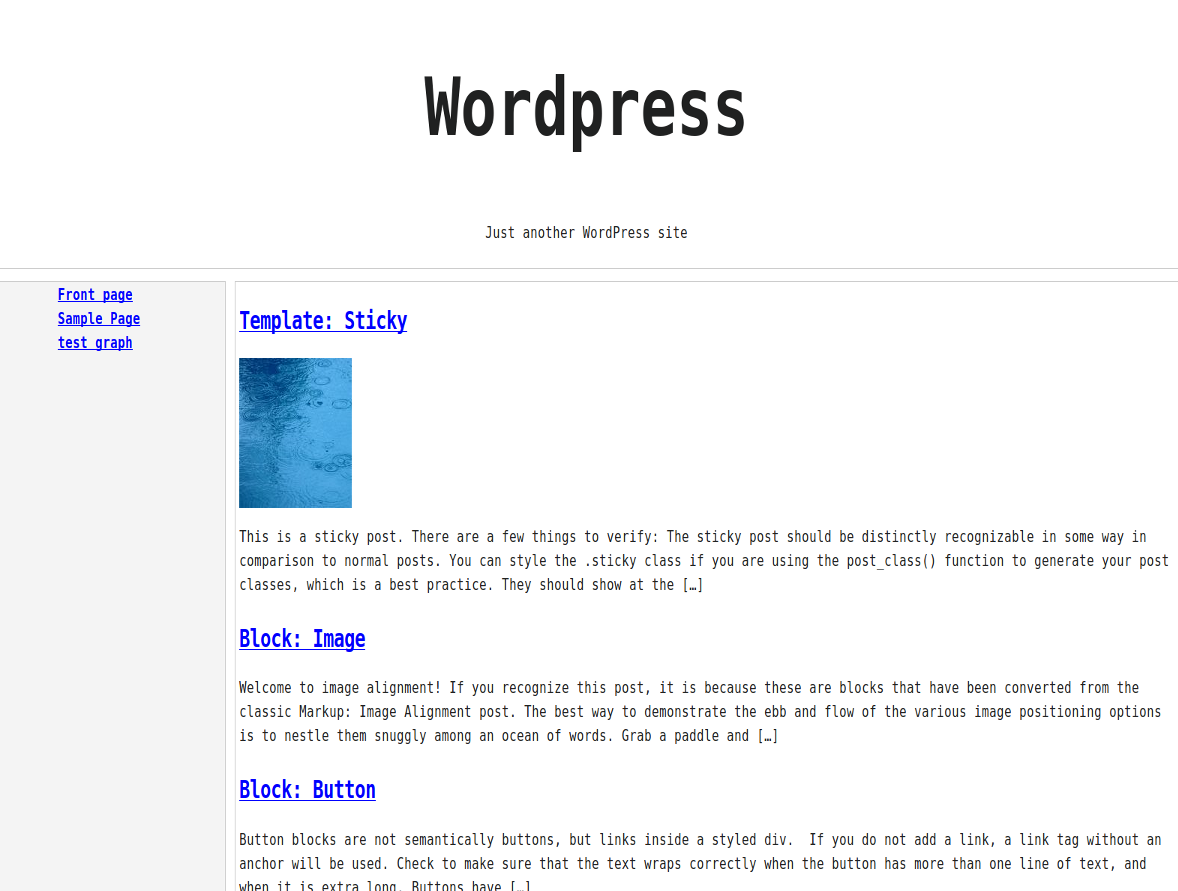
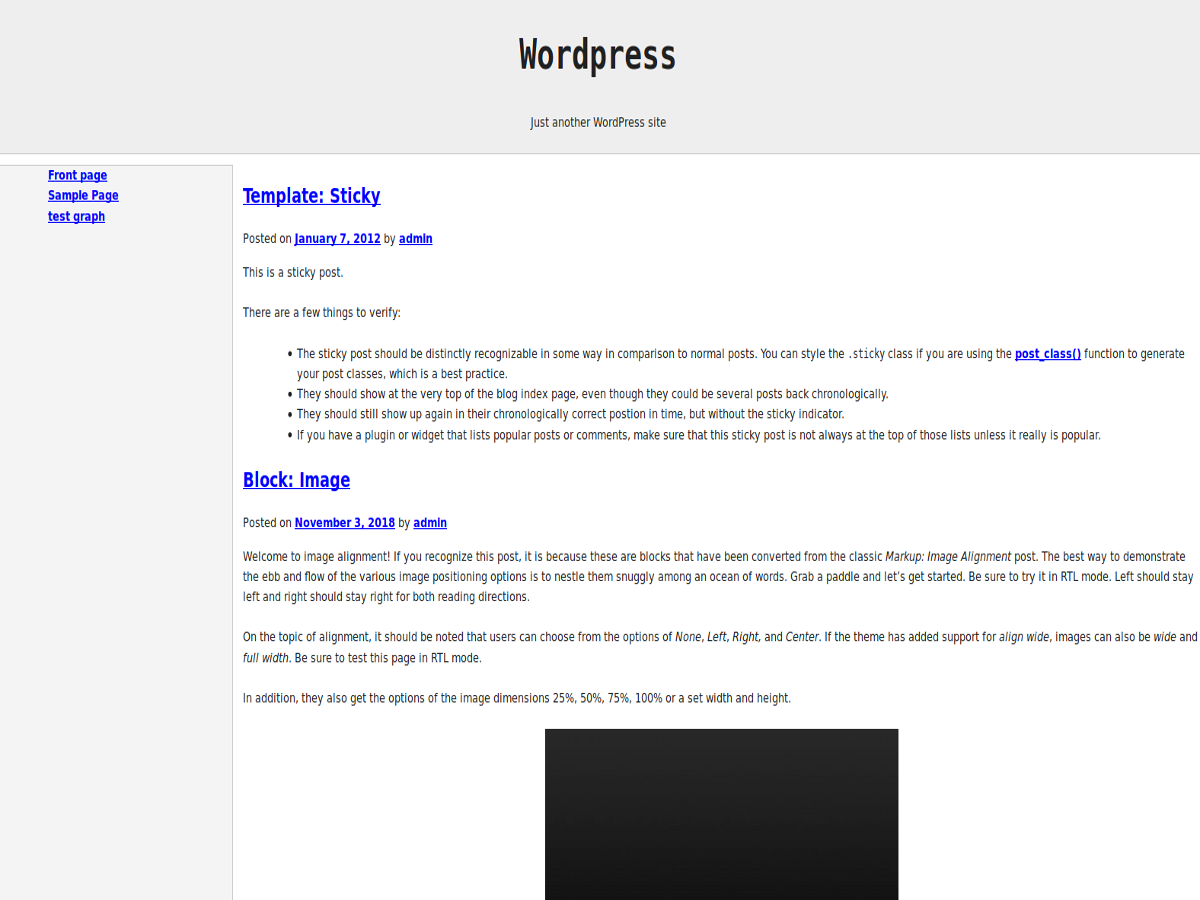
update for customizer

diff --git a/js/customizer.js b/js/customizer.js
@@ -1,42 +1,8 @@
 /**
- * File customizer.js.
  *
  * Theme Customizer enhancements for a better user experience.
  *
- * Contains handlers to make Theme Customizer preview reload changes asynchronously.
  */
-
 ( function( $ ) {
 
-	// Site title and description.
-	wp.customize( 'blogname', function( value ) {
-		value.bind( function( to ) {
-			$( '.site-title a' ).text( to );
-		} );
-	} );
-	wp.customize( 'blogdescription', function( value ) {
-		value.bind( function( to ) {
-			$( '.site-description' ).text( to );
-		} );
-	} );
-
-	// Header text color.
-	wp.customize( 'header_textcolor', function( value ) {
-		value.bind( function( to ) {
-			if ( 'blank' === to ) {
-				$( '.site-title, .site-description' ).css( {
-					'clip': 'rect(1px, 1px, 1px, 1px)',
-					'position': 'absolute'
-				} );
-			} else {
-				$( '.site-title, .site-description' ).css( {
-					'clip': 'auto',
-					'position': 'relative'
-				} );
-				$( '.site-title a, .site-description' ).css( {
-					'color': to
-				} );
-			}
-		} );
-	} );
 } )( jQuery );

diff --git a/style.css b/style.css
@@ -8,7 +8,7 @@ Text Domain: nidavellir
 License: GNU General Public License v2 or later
 License URI: LICENSE
 Description: A Brutalist WordPress theme
-Tags: two-columns, featured-images, threaded-comments, translation-ready
+Tags: two-columns, featured-images, threaded-comments, translation-ready, custom-logo
 */
 html {
 	line-height: 1.15;
@@ -17,6 +17,7 @@ html {
 
 body {
 	margin: 0;
+	background-color: #FFF;
 }
 
 h1 {

diff --git a/inc/customizer.php b/inc/customizer.php
@@ -5,28 +5,32 @@
  * @package nidavellir
  */
 
-/**
- * Add postMessage support for site title and description for the Theme Customizer.
- *
- * @param WP_Customize_Manager $wp_customize Theme Customizer object.
- */
+
+add_action( 'customize_register', 'nidavellir_customize_register' );
 function nidavellir_customize_register( $wp_customize ) {
+
 	$wp_customize->get_setting( 'blogname' )->transport         = 'postMessage';
 	$wp_customize->get_setting( 'blogdescription' )->transport  = 'postMessage';
 	$wp_customize->get_setting( 'header_textcolor' )->transport = 'postMessage';
-	
+
 	if ( isset( $wp_customize->selective_refresh ) ) {
-		$wp_customize->selective_refresh->add_partial( 'blogname', array(
-			'selector'        => '.site-title a',
-			'render_callback' => 'nidavellir_customize_partial_blogname',
-		) );
-		$wp_customize->selective_refresh->add_partial( 'blogdescription', array(
-			'selector'        => '.site-description',
-			'render_callback' => 'exodus_customize_partial_blogdescription',
-		) );
+		$wp_customize->selective_refresh->add_partial(
+			'blogname',
+			array(
+				'selector'        => '.site-title a',
+				'render_callback' => 'nidavellir_customize_partial_blogname',
+			)
+		);
+		$wp_customize->selective_refresh->add_partial(
+			'blogdescription',
+			array(
+				'selector'        => '.site-description',
+				'render_callback' => 'nidavellir_customize_partial_blogdescription',
+			)
+		);
 	}
+
 }
-add_action( 'customize_register', 'nidavellir_customize_register' );
 
 /**
  * Render the site title for the selective refresh partial.
@@ -45,10 +49,11 @@ function nidavellir_customize_partial_blogname() {
 function nidavellir_customize_partial_blogdescription() {
 	bloginfo( 'description' );
 }
+
 /**
- * Binds JS handlers to make Theme Customizer preview reload changes asynchronously.
+ * Bind JS handlers to instantly live-preview changes.
  */
 function nidavellir_customize_preview_js() {
-	wp_enqueue_script( 'nidavellir-customizer', get_template_directory_uri() . '/js/customizer.js', array( 'customize-preview' ), '20151215', true );
+	wp_enqueue_script( 'nidavellir-customize-preview', get_theme_file_uri( '/js/customize.js' ), array( 'customize-preview' ), '1.0', true );
 }
 add_action( 'customize_preview_init', 'nidavellir_customize_preview_js' );

diff --git a/inc/template-tags.php b/inc/template-tags.php
@@ -42,6 +42,7 @@ if ( ! function_exists( 'nidavellir_posted_by' ) ) :
 		echo '<span class="byline"> ' .  $byline . '</span>'; // WPCS: XSS OK.
 	}
 endif;
+
 if ( ! function_exists( 'nidavellir_entry_footer' ) ) :
 	/**
 	 * Prints HTML with meta information for the categories, tags and comments.
@@ -95,39 +96,5 @@ if ( ! function_exists( 'nidavellir_entry_footer' ) ) :
 			'<span class="edit-link">',
 			'</span>'
 		);
-	}
-endif;
-if ( ! function_exists( 'nidavellir_post_thumbnail' ) ) :
-	/**
-	 * Displays an optional post thumbnail.
-	 *
-	 * Wraps the post thumbnail in an anchor element on index views, or a div
-	 * element when on single views.
-	 */
-	function nidavellir_post_thumbnail() {
-		if ( post_password_required() || is_attachment() || ! has_post_thumbnail() ) {
-			return;
-		}
-		if ( is_singular() ) :
-			?>
-
-			<div class="post-thumbnail">
-				<?php the_post_thumbnail(); ?>
-			</div>
-
-		<?php else : ?>
-
-		<a class="post-thumbnail" href="<?php the_permalink(); ?>" aria-hidden="true" tabindex="-1">
-			<?php
-			the_post_thumbnail( 'post-thumbnail', array(
-				'alt' => the_title_attribute( array(
-					'echo' => false,
-				) ),
-			) );
-			?>
-		</a>
-
-		<?php
-		endif; // End is_singular().
 	}
 endif;

diff --git a/header.php b/header.php
@@ -2,7 +2,7 @@
 /**
  * Theme header
  *
- * @package exodus
+ * @package nidavellir
  *
  */
 ?>
@@ -18,20 +18,12 @@
 
 <div class="container">
 
-    <header id="site-header">
+    <header id="masthead" class="site-header">
 
-      <h1 class="site-title">
-      <a href="<?php echo esc_url( home_url( '/' ) ); ?>" rel="home"><?php bloginfo( 'name' ); ?></a>
-      </h1>
-      <?php
-        $nidavellir_description = get_bloginfo( 'description', 'display' );
-        if ( $nidavellir_description || is_customize_preview() ) :
-      ?>
-      
-      <p class="site-description"><?php echo esc_html( $nidavellir_description ); /* WPCS: xss ok. */ ?></p>
+      <div class="site-branding-container">
+			  <?php get_template_part( 'template-parts/header/site', 'branding' ); ?>
+			</div><!-- .layout-wrap -->
 
-      <?php endif; ?>
-    
     </header>
 
     <nav id="site-navigation">
@@ -42,7 +34,7 @@
           'menu_id'        => 'primary-menu',
         ) );
       ?>
-  
+
     </nav>
 
     <main> <!-- start of main content section -->

diff --git a/template-parts/header/site-branding.php b/template-parts/header/site-branding.php
@@ -1,0 +1,32 @@
+<?php
+/**
+ * Displays header site branding
+ *
+ * @subpackage nidavellir
+ * @since 1.0.0
+ */
+?>
+<div class="site-branding">
+
+<?php if ( has_custom_logo() ) : ?>
+        <div class="site-logo"><?php the_custom_logo(); ?></div>
+      <?php endif; ?>
+
+      <?php $blog_info = get_bloginfo( 'name' ); ?>
+
+      <?php if ( ! empty( $blog_info ) ) : ?>
+
+          <h1 class="site-title"><a href="<?php echo esc_url( home_url( '/' ) ); ?>" rel="home"><?php bloginfo( 'name' ); ?></a></h1>
+
+      <?php endif; ?>
+
+      <?php
+        $nidavellir_description = get_bloginfo( 'description', 'display' );
+        if ( $nidavellir_description || is_customize_preview() ) :
+      ?>
+      
+      <p class="site-description"><?php echo esc_html( $nidavellir_description ); /* WPCS: xss ok. */ ?></p>
+
+      <?php endif; ?>
+    
+</div>

diff --git a/inc/template-functions.php b/inc/template-functions.php
@@ -5,22 +5,6 @@
  * @package nidavellir
  */
 
-/**
- * Adds custom classes to the array of body classes.
- *
- * @param array $classes Classes for the body element.
- * @return array
- */
-function nidavellir_body_classes( $classes ) {
-	if ( ! is_singular() ) {
-		$classes[] = 'hfeed';
-	}
-	if ( ! is_active_sidebar( 'sidebar-1' ) ) {
-		$classes[] = 'no-sidebar';
-	}
-	return $classes;
-}
-add_filter( 'body_class', 'nidavellir_body_classes' );
 
 /**
  * Add a pingback url auto-discovery header for single posts, pages, or attachments.
